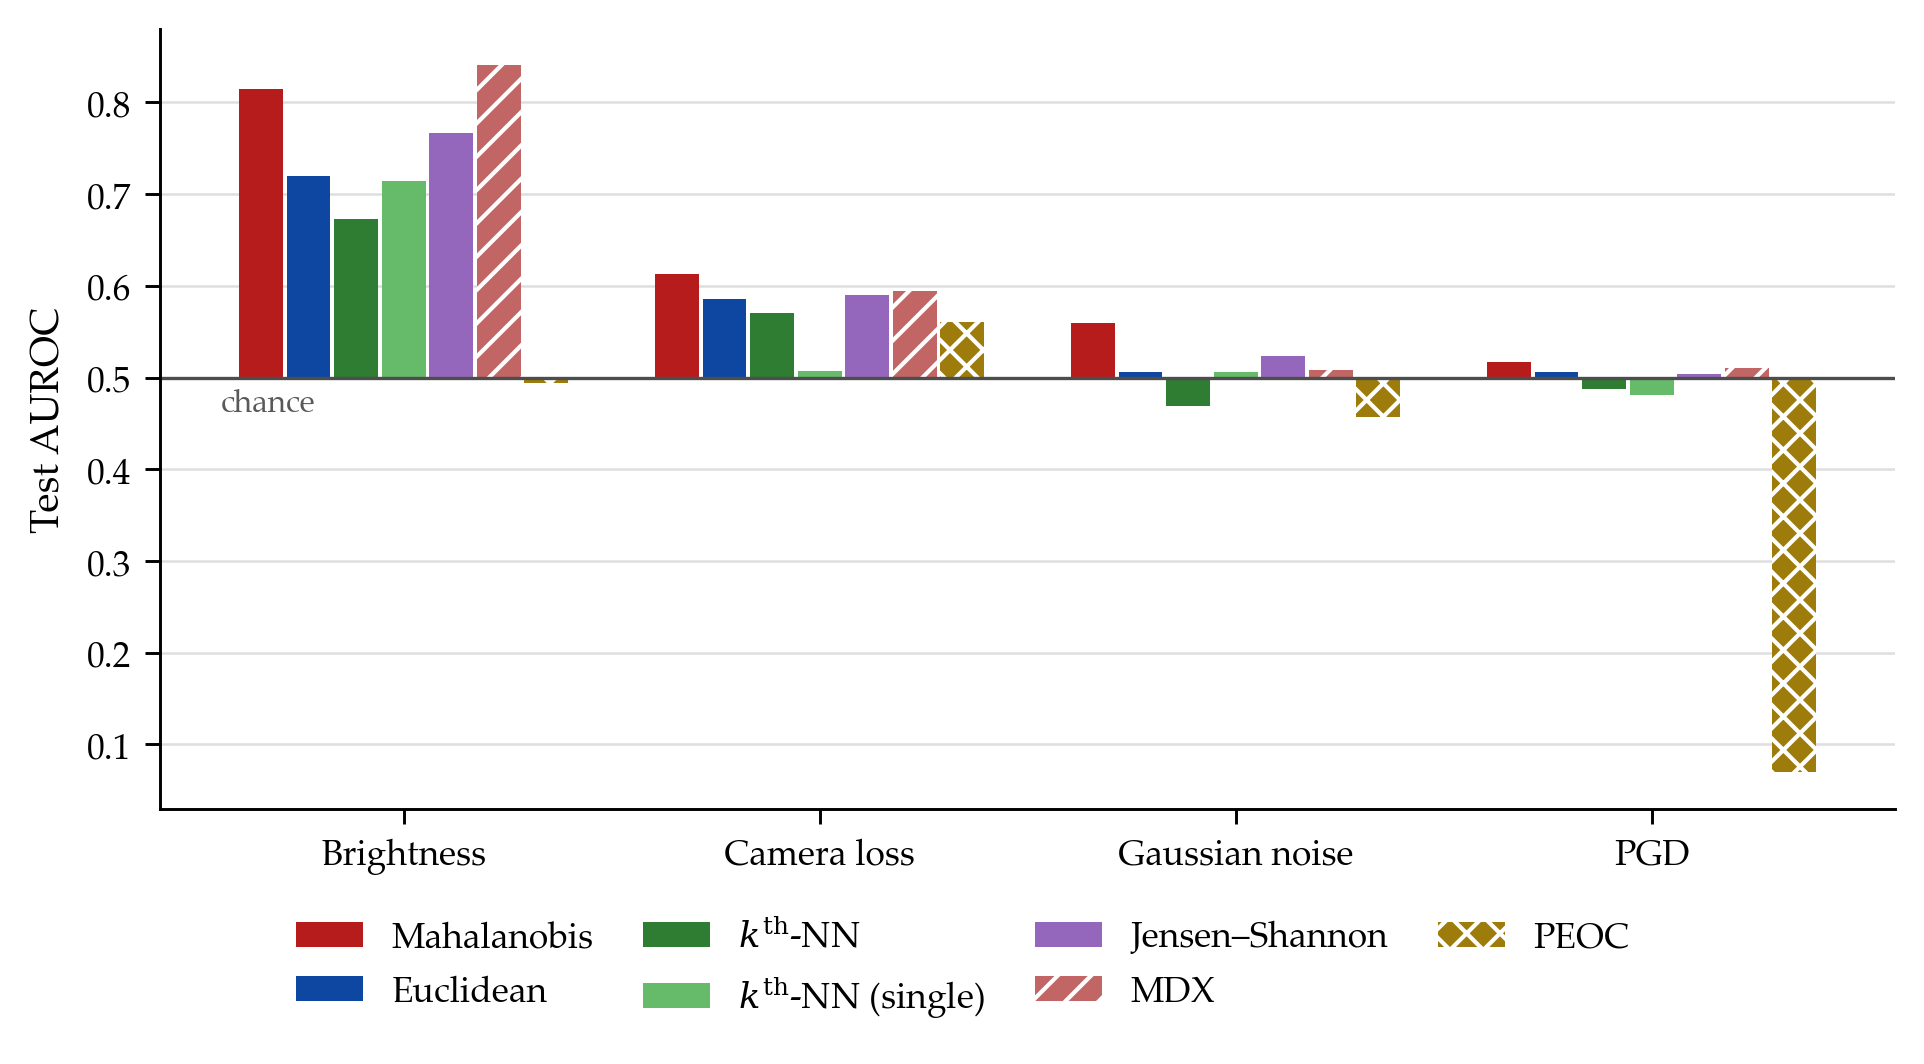
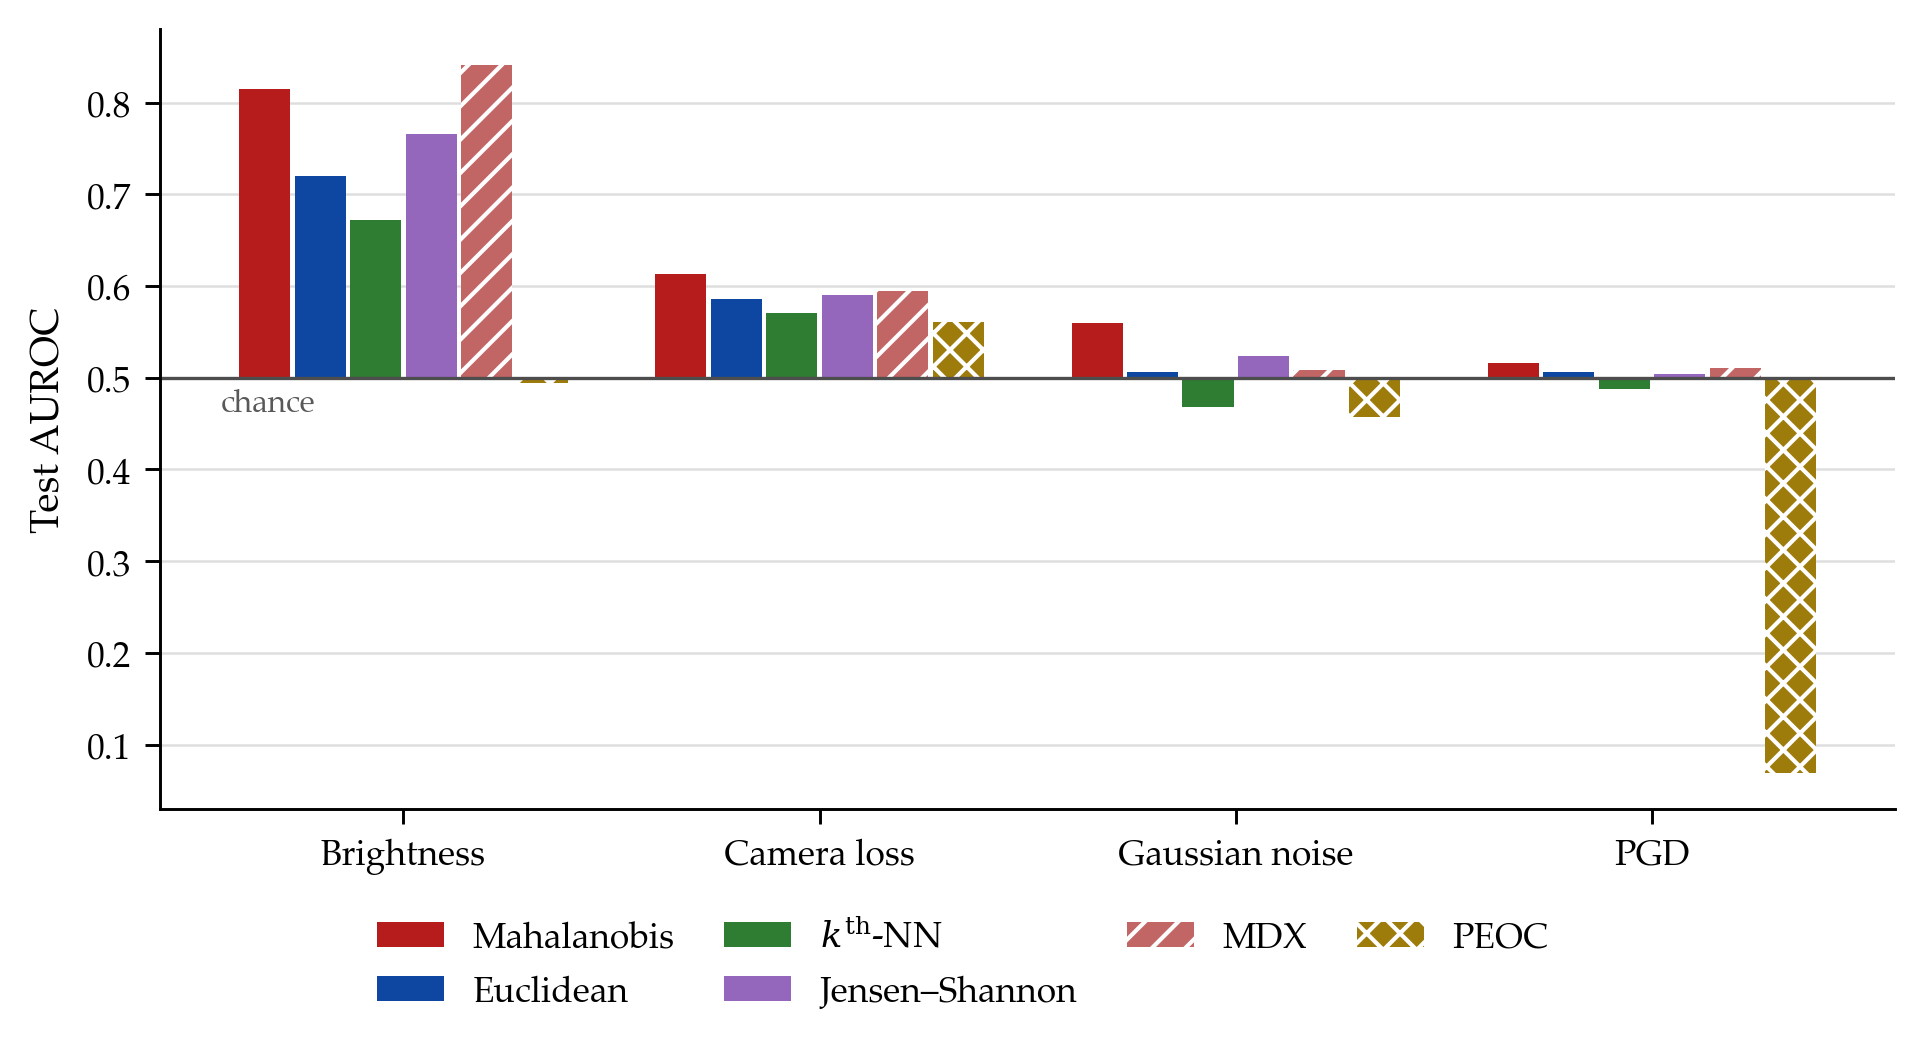
Drop the single-component k-NN bar from the per-perturbation AUROC figure
@aurocs now compares every detector against the same K = 10 reference;
the single-vs-clustered k-NN comparison stays in auroc_gmm_vs_single and
knn_k_selection. Numbers unchanged.

Changed region(s): [[0.0, 0.0607, 0.9979, 0.728], [0.1559, 0.8493, 0.842, 0.9706], [0.0936, 0.7583, 0.9979, 0.819]]

diff --git a/make_thesis_figures.py b/make_thesis_figures.py
@@ -898,11 +898,12 @@ def fig_auroc_per_perturbation() -> None:
     per_pert = load_per_perturbation()
     overall = load_overall()
 
-    # "knn_single" = plain kNN over the full baseline (no clustering) — kNN is
-    # the one detector for which the GMM pooling is conceptually questionable,
-    # so its single variant is reported alongside, in a lighter tint of the
-    # kNN green.
-    detectors = ["mahalanobis", "euclidean", "knn", "knn_single", "jsd", "mdx", "peoc"]
+    # The single-component (no-clustering) kNN was dropped from this headline
+    # figure on 2026-09-22 (author): it shows every attention distance against
+    # the same K=10 reference, and the single-vs-clustered kNN comparison lives
+    # in auroc_gmm_vs_single (@clusterAdvantage) and knn_k_selection
+    # (@knnSelection). "knn" here is the GMM-pooled variant.
+    detectors = ["mahalanobis", "euclidean", "knn", "jsd", "mdx", "peoc"]
     hatches = {"mdx": "///", "peoc": "xxx"}   # bar analogue of the dashed lines
 
     def value(src: dict[str, float], fam: str) -> float:
@@ -983,7 +984,9 @@ def fig_auroc_per_perturbation() -> None:
     notes.line("    The K-selection criterion is yet another pool, because it "
                "drops Gaussian noise and then averages over detectors as well. "
                "See auroc_val_test_vs_K.txt.")
-    notes.line("    All k-NN entries except 'single' use the GMM-pooled variant.")
+    notes.line("    The k-NN entry is the GMM-pooled variant. The single "
+               "(no-clustering) k-NN was dropped from this figure on 2026-09-22; "
+               "it is compared in auroc_gmm_vs_single.txt and knn_k_selection.txt.")
 
     for gi, (g, glabel, src_d) in enumerate(zip(groups, group_labels, sources)):
         notes.section(glabel)
@@ -995,7 +998,7 @@ def fig_auroc_per_perturbation() -> None:
         worst = min(vals, key=vals.get)
         notes.value("highest", f"{det_labels[best]} {vals[best]:.4f}")
         notes.value("lowest", f"{det_labels[worst]} {vals[worst]:.4f}")
-        att = ["mahalanobis", "euclidean", "knn", "knn_single", "jsd"]
+        att = ["mahalanobis", "euclidean", "knn", "jsd"]
         b_att = max(att, key=lambda f: vals[f])
         notes.value("highest attention distance",
                     f"{det_labels[b_att]} {vals[b_att]:.4f}")
